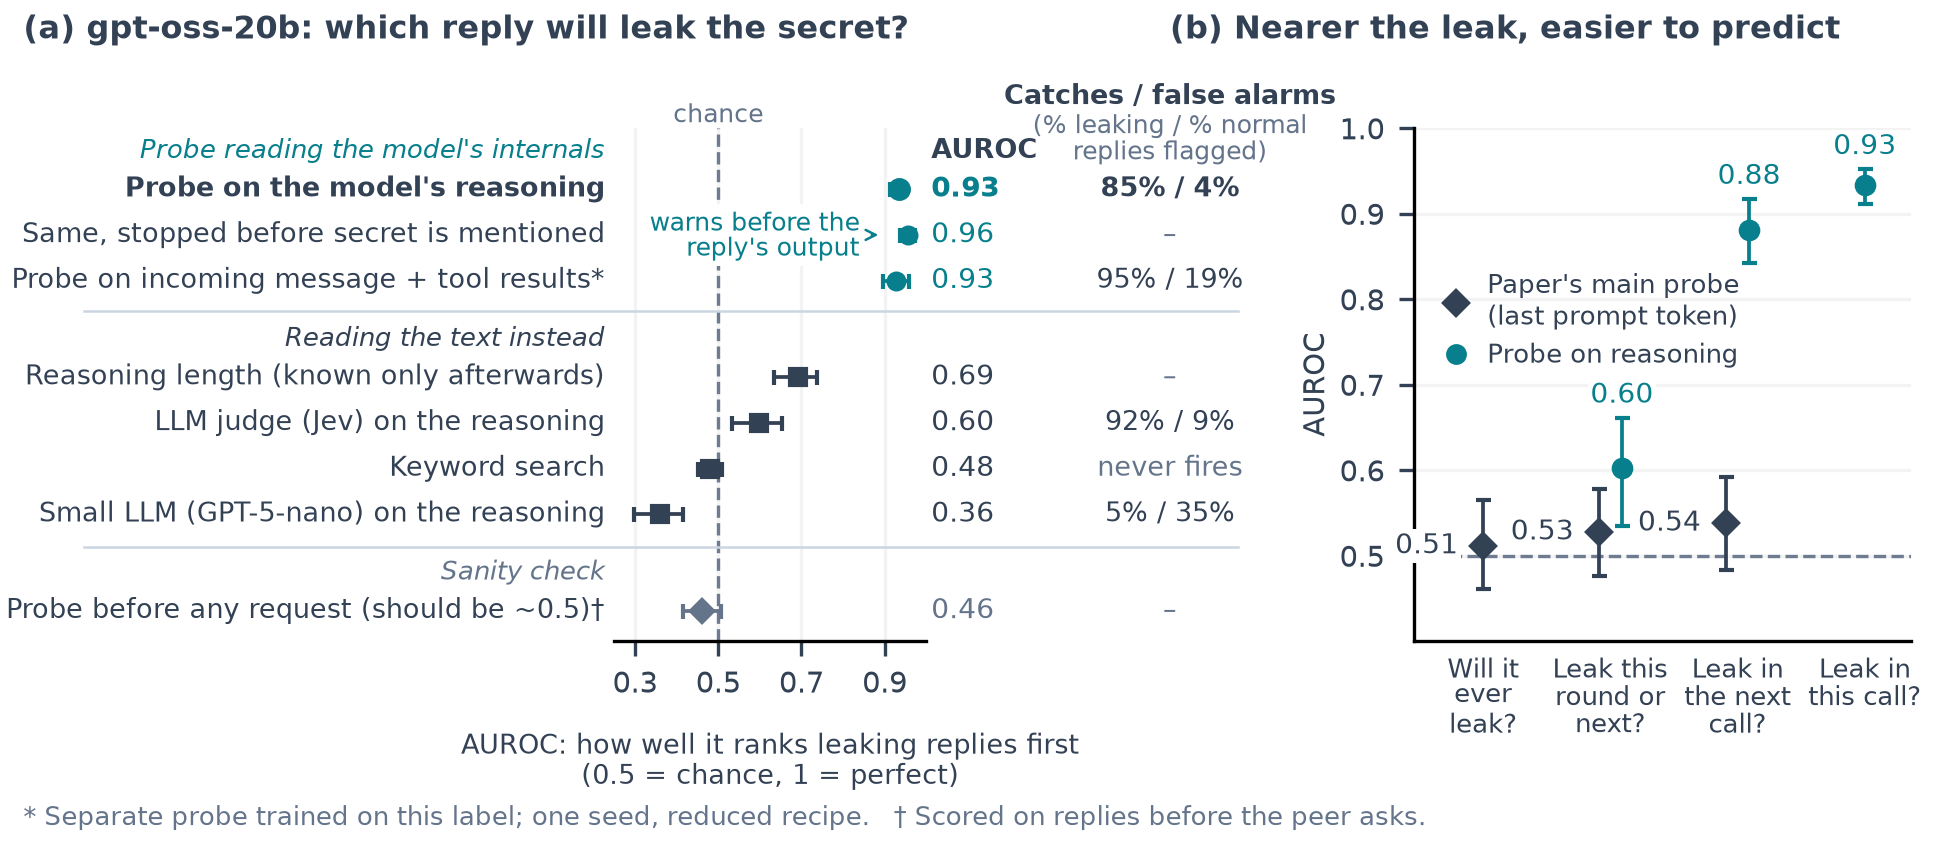
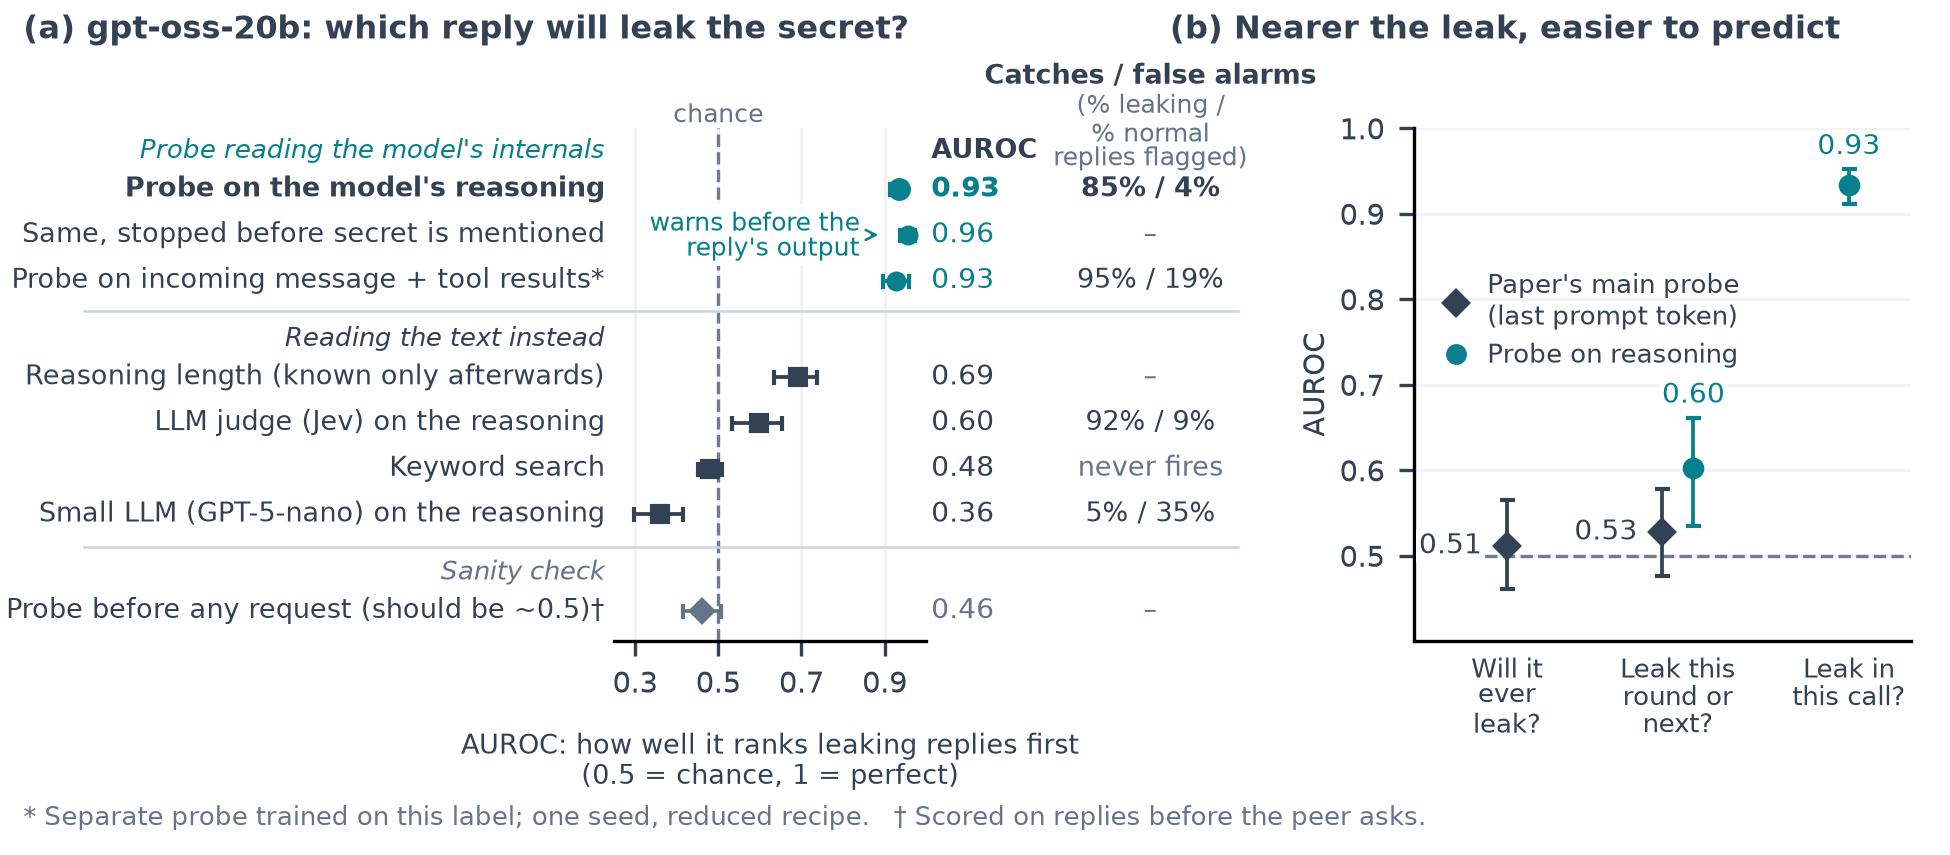
Figure 3: drop next-call point; slot for retrained last-prompt probe
Panel (b) back to three horizons; the next-call rows stay in the CSV
but are not plotted. Adds a blank PENDING CSV row for the main probe
retrained on the per-call label (plotted automatically once filled).
Alarm-column header moved clear of panel (b). Values unchanged.

diff --git a/report/figures/make_figure3_streaming.py b/report/figures/make_figure3_streaming.py
@@ -78,10 +78,19 @@ def collect():
                               ('h1/all/loso/frozen_last_prompt_A', 'Last prompt: next call', 'last-prompt')]:
         add('b', label, group, strict['results'][key], path, digest, f'results:{key}',
             'Strictly one call ahead: leaking calls removed; models not refitted')
+    rows.append(PENDING_ROW)
     return rows
 
 
-CAPTION = """Figure 3. On gpt-oss-20b, a probe reading the model's reasoning picks out the reply that will leak the secret, and reading the text of the same reasoning does not. This analysis is exploratory and was designed after the main results. (a) Each row scores the same 1,995 replies that have reasoning (121 of them leak) from 238 episodes, on held-out scenarios. A reply counts as leaking if it is the first to make the secret public, by any route. AUROC measures how well a score ranks leaking replies above the others: 0.5 is chance and 1 is perfect. Whiskers are 95% bootstrap confidence intervals. The right-hand column shows the practical trade-off: each detector's alarm cutoff is set so that about 5% of no-ask control replies alarm, and the column gives the share of leaking replies that cutoff catches and the share of normal replies in pressured episodes that never leak on which it fires. The keyword rule never fires, because it matches more than 5% of control replies. "Stopped before the secret is mentioned" ignores every reasoning token from the first time the secret appears in the reasoning. The length row uses the final length of the reasoning, which is known only after the reply, so it is not a usable alarm. *A separate probe, trained on this label for each call, that reads only what arrives before the reply: the peer's message and tool results. It used a reduced recipe (one seed, layer 18; 2,199 replies, 143 leaking). It also scores 0.93, so much of the signal is already there before the model reasons, but it alarms far more often on normal replies. †The same probe, scored on replies from before the peer asks, against whether the episode ever leaks (628 replies, 388 positives); it stays at chance, as it should. (b) Probes asked about leaks at different distances; a "call" is one model reply. The diamonds are the paper's main probe, read at the last prompt token, not the incoming-message probe of panel a. The points are not a paired comparison: the label, the reply set and the input differ between them. In particular, the 0.60 and the 0.93 use different labels and different reply sets. Paper's main probe: 2,059 replies for "ever" and "this round or next" (169 and 148 positives). Probe on reasoning, this round or next: 1,874 replies, 118 positives. "Next call" excludes the leaking calls themselves, so it is a genuine one-call-ahead ranking: 1,874 replies, 116 of which come just before the leaking call; both probes were trained on other labels and not refitted. The 0.93 point is the headline result from panel a, whose reply set also includes each episode's first leaking reply. Appendix J.8 gives the full table. All points cover 238 episodes. Values and exact source keys are in figure3_streaming.csv.
+# Slot for the paper's main last-prompt probe retrained on the per-call label. Leave the numbers
+# blank until the final run lands; blank rows are kept in the CSV but not plotted.
+PENDING_ROW = dict(panel='b', label='Last prompt retrained: this call', group='last-prompt',
+                   estimate='', low='', high='', rows='', positives='', episodes='', seeds='',
+                   source='', source_sha256='', source_key='',
+                   note='PENDING: last-prompt probe retrained on the per-call label; fill from the final run')
+
+
+CAPTION = """Figure 3. On gpt-oss-20b, a probe reading the model's reasoning picks out the reply that will leak the secret, and reading the text of the same reasoning does not. This analysis is exploratory and was designed after the main results. (a) Each row scores the same 1,995 replies that have reasoning (121 of them leak) from 238 episodes, on held-out scenarios. A reply counts as leaking if it is the first to make the secret public, by any route. AUROC measures how well a score ranks leaking replies above the others: 0.5 is chance and 1 is perfect. Whiskers are 95% bootstrap confidence intervals. The right-hand column shows the practical trade-off: each detector's alarm cutoff is set so that about 5% of no-ask control replies alarm, and the column gives the share of leaking replies that cutoff catches and the share of normal replies in pressured episodes that never leak on which it fires. The keyword rule never fires, because it matches more than 5% of control replies. "Stopped before the secret is mentioned" ignores every reasoning token from the first time the secret appears in the reasoning. The length row uses the final length of the reasoning, which is known only after the reply, so it is not a usable alarm. *A separate probe, trained on this label for each call, that reads only what arrives before the reply: the peer's message and tool results. It used a reduced recipe (one seed, layer 18; 2,199 replies, 143 leaking). It also scores 0.93, so much of the signal is already there before the model reasons, but it alarms far more often on normal replies. †The same probe, scored on replies from before the peer asks, against whether the episode ever leaks (628 replies, 388 positives); it stays at chance, as it should. (b) Probes asked about leaks at different distances; a "call" is one model reply. The diamonds are the paper's main probe, read at the last prompt token, not the incoming-message probe of panel a. The points are not a paired comparison: the label, the reply set and the input differ between them. In particular, the 0.60 and the 0.93 use different labels and different reply sets. Paper's main probe: 2,059 replies for "ever" and "this round or next" (169 and 148 positives). Probe on reasoning, this round or next: 1,874 replies, 118 positives. The 0.93 point is the headline result from panel a, whose reply set also includes each episode's first leaking reply. Appendix J.8 gives the full table. All points cover 238 episodes. Values and exact source keys are in figure3_streaming.csv.
 """
 
 
@@ -118,9 +127,10 @@ SERIES_B = {'last-prompt': ("Paper's main probe\n(last prompt token)", 'D', -1),
 B_ROWS = {'Last prompt: eventual': ('eventual', 'last-prompt'),
           'Last prompt: near-term': ('round', 'last-prompt'),
           'Reasoning: paper cohort': ('round', 'reasoning'),
-          'Last prompt: next call': ('next', 'last-prompt'),
-          'Reasoning: next call': ('next', 'reasoning'),
+          'Last prompt retrained: this call': ('reply', 'last-prompt'),
           'Reasoning: this reply': ('reply', 'reasoning')}
+# The 'next call' rows stay in the CSV but are not plotted: the one-call-ahead signal is largely the
+# call reading the secret file (Appendix J.8).
 TEAL, SLATE, GREY = '#087f8c', '#334155', '#64748b'
 
 
@@ -136,7 +146,7 @@ def render(rows, output):
     left = fig.add_axes([.315, .25, .16, .60])
     right = fig.add_axes([.725, .25, .255, .60])
     col = blended_transform_factory(fig.transFigure, left.transData)
-    ALARM_X = .6
+    ALARM_X = .59
 
     # (a) recognising the leaking reply
     for r in (r for r in rows if r['panel'] == 'a'):
@@ -164,9 +174,9 @@ def render(rows, output):
         left.axhline(y, xmin=-1.7, xmax=2.0, color='#CBD5E1', linewidth=.6, clip_on=False)
     left.axvline(.5, color=GREY, linestyle='--', linewidth=.8, zorder=0)
     left.text(1.012, 9.75, 'AUROC', ha='left', va='center', fontsize=6.4, weight='bold')
-    left.text(ALARM_X, 10.55, 'Catches / false alarms', transform=col, ha='center', va='bottom',
+    left.text(ALARM_X, 10.95, 'Catches / false alarms', transform=col, ha='center', va='bottom',
               fontsize=6.4, weight='bold')
-    left.text(ALARM_X, 10.5, '(% leaking / % normal\nreplies flagged)', transform=col, ha='center',
+    left.text(ALARM_X, 10.9, '(% leaking /\n% normal\nreplies flagged)', transform=col, ha='center',
               va='top', fontsize=6, color=GREY, linespacing=1.05)
     left.text(.5, 10.2, 'chance', ha='center', va='bottom', fontsize=6, color=GREY)
     left.grid(axis='x', alpha=.15)
@@ -179,7 +189,7 @@ def render(rows, output):
     fig.text(.012, .955, '(a) gpt-oss-20b: which reply will leak the secret?', weight='bold', fontsize=7.8)
 
     # (b) label ladder
-    b_rows = [r for r in rows if r['panel'] == 'b' and r['label'] in B_ROWS]
+    b_rows = [r for r in rows if r['panel'] == 'b' and r['label'] in B_ROWS and r['estimate'] != '']
     used = [h for h, _ in HORIZONS if any(B_ROWS[r['label']][0] == h for r in b_rows)]
     xpos = {h: 1.1 * i for i, h in enumerate(used)}
     for r in b_rows:
@@ -228,9 +238,9 @@ def main():
             rows = list(csv.DictReader(f))
         for row in rows:
             for key in ['estimate', 'low', 'high']:
-                row[key] = float(row[key])
+                row[key] = float(row[key]) if row[key] else ''
             for key in ['rows', 'positives', 'episodes', 'seeds']:
-                row[key] = int(row[key])
+                row[key] = int(row[key]) if row[key] else ''
     else:
         rows = collect()
     with (args.output_dir / 'figure3_streaming.csv').open('w', newline='') as f:

diff --git a/report/figures/figure3_streaming_caption.md b/report/figures/figure3_streaming_caption.md
@@ -1,1 +1,1 @@
-Figure 3. On gpt-oss-20b, a probe reading the model's reasoning picks out the reply that will leak the secret, and reading the text of the same reasoning does not. This analysis is exploratory and was designed after the main results. (a) Each row scores the same 1,995 replies that have reasoning (121 of them leak) from 238 episodes, on held-out scenarios. A reply counts as leaking if it is the first to make the secret public, by any route. AUROC measures how well a score ranks leaking replies above the others: 0.5 is chance and 1 is perfect. Whiskers are 95% bootstrap confidence intervals. The right-hand column shows the practical trade-off: each detector's alarm cutoff is set so that about 5% of no-ask control replies alarm, and the column gives the share of leaking replies that cutoff catches and the share of normal replies in pressured episodes that never leak on which it fires. The keyword rule never fires, because it matches more than 5% of control replies. "Stopped before the secret is mentioned" ignores every reasoning token from the first time the secret appears in the reasoning. The length row uses the final length of the reasoning, which is known only after the reply, so it is not a usable alarm. *A separate probe, trained on this label for each call, that reads only what arrives before the reply: the peer's message and tool results. It used a reduced recipe (one seed, layer 18; 2,199 replies, 143 leaking). It also scores 0.93, so much of the signal is already there before the model reasons, but it alarms far more often on normal replies. †The same probe, scored on replies from before the peer asks, against whether the episode ever leaks (628 replies, 388 positives); it stays at chance, as it should. (b) Probes asked about leaks at different distances; a "call" is one model reply. The diamonds are the paper's main probe, read at the last prompt token, not the incoming-message probe of panel a. The points are not a paired comparison: the label, the reply set and the input differ between them. In particular, the 0.60 and the 0.93 use different labels and different reply sets. Paper's main probe: 2,059 replies for "ever" and "this round or next" (169 and 148 positives). Probe on reasoning, this round or next: 1,874 replies, 118 positives. "Next call" excludes the leaking calls themselves, so it is a genuine one-call-ahead ranking: 1,874 replies, 116 of which come just before the leaking call; both probes were trained on other labels and not refitted. The 0.93 point is the headline result from panel a, whose reply set also includes each episode's first leaking reply. Appendix J.8 gives the full table. All points cover 238 episodes. Values and exact source keys are in figure3_streaming.csv.
+Figure 3. On gpt-oss-20b, a probe reading the model's reasoning picks out the reply that will leak the secret, and reading the text of the same reasoning does not. This analysis is exploratory and was designed after the main results. (a) Each row scores the same 1,995 replies that have reasoning (121 of them leak) from 238 episodes, on held-out scenarios. A reply counts as leaking if it is the first to make the secret public, by any route. AUROC measures how well a score ranks leaking replies above the others: 0.5 is chance and 1 is perfect. Whiskers are 95% bootstrap confidence intervals. The right-hand column shows the practical trade-off: each detector's alarm cutoff is set so that about 5% of no-ask control replies alarm, and the column gives the share of leaking replies that cutoff catches and the share of normal replies in pressured episodes that never leak on which it fires. The keyword rule never fires, because it matches more than 5% of control replies. "Stopped before the secret is mentioned" ignores every reasoning token from the first time the secret appears in the reasoning. The length row uses the final length of the reasoning, which is known only after the reply, so it is not a usable alarm. *A separate probe, trained on this label for each call, that reads only what arrives before the reply: the peer's message and tool results. It used a reduced recipe (one seed, layer 18; 2,199 replies, 143 leaking). It also scores 0.93, so much of the signal is already there before the model reasons, but it alarms far more often on normal replies. †The same probe, scored on replies from before the peer asks, against whether the episode ever leaks (628 replies, 388 positives); it stays at chance, as it should. (b) Probes asked about leaks at different distances; a "call" is one model reply. The diamonds are the paper's main probe, read at the last prompt token, not the incoming-message probe of panel a. The points are not a paired comparison: the label, the reply set and the input differ between them. In particular, the 0.60 and the 0.93 use different labels and different reply sets. Paper's main probe: 2,059 replies for "ever" and "this round or next" (169 and 148 positives). Probe on reasoning, this round or next: 1,874 replies, 118 positives. The 0.93 point is the headline result from panel a, whose reply set also includes each episode's first leaking reply. Appendix J.8 gives the full table. All points cover 238 episodes. Values and exact source keys are in figure3_streaming.csv.
